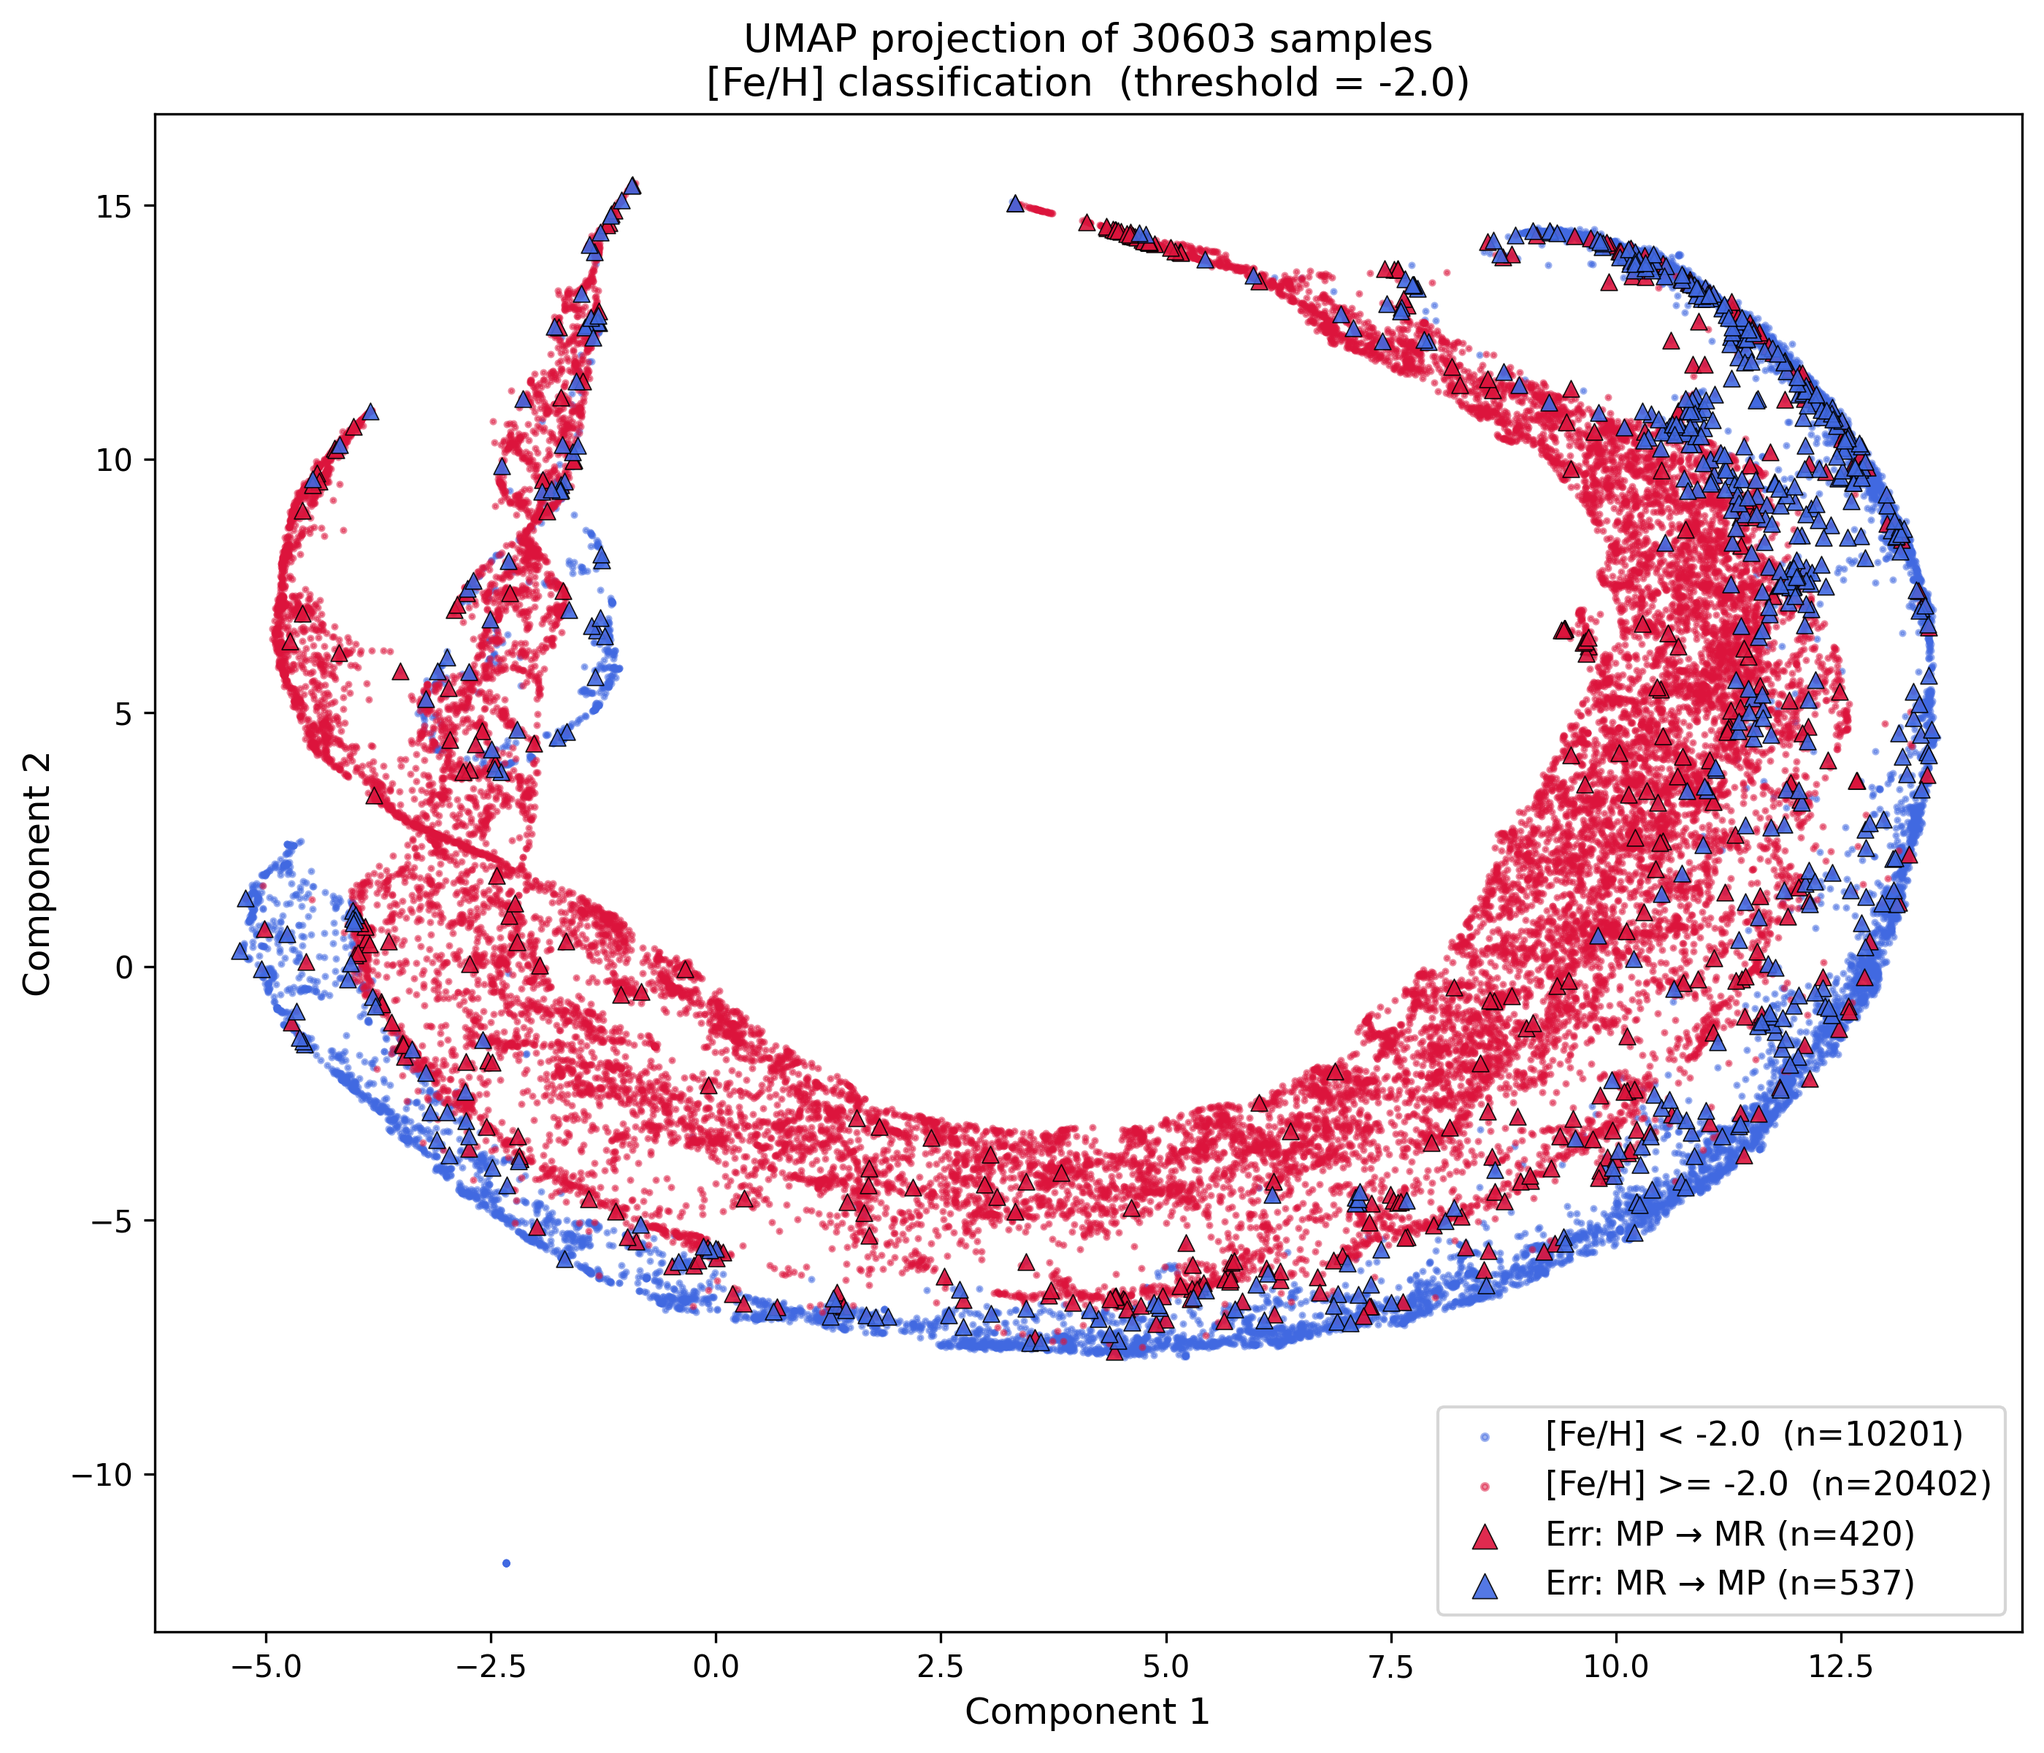
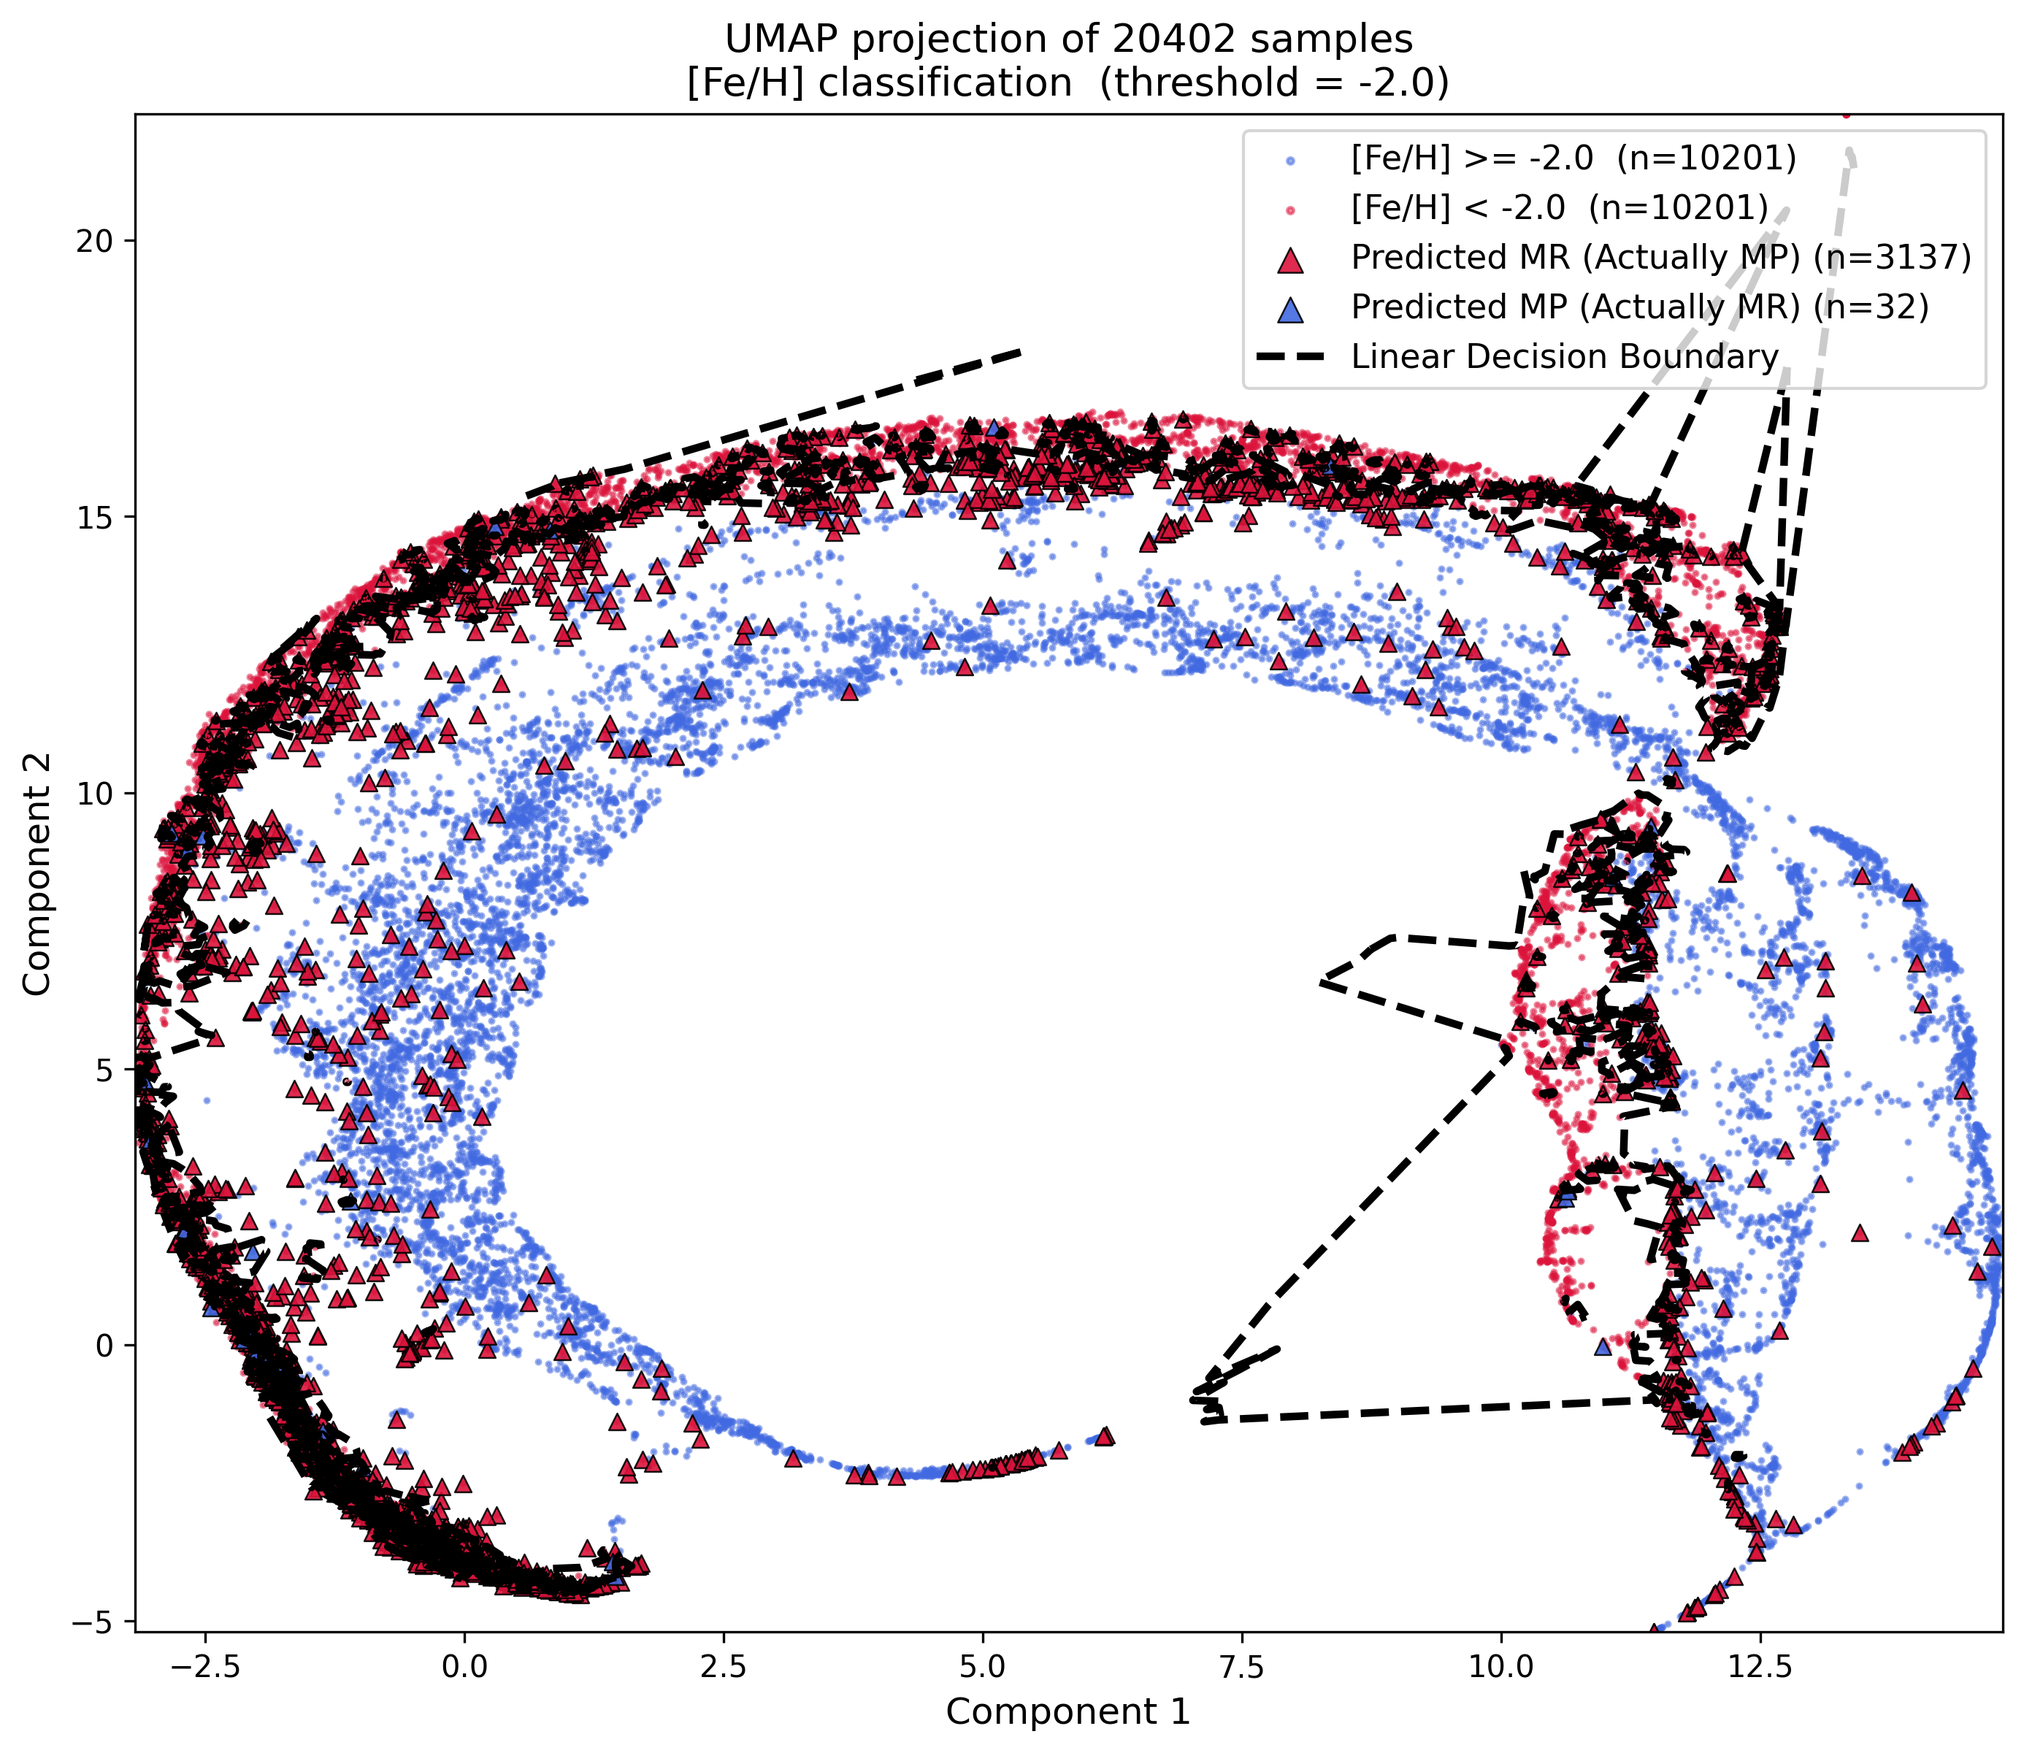
simplifications and new visualizations

diff --git a/visualize_embedding.py b/visualize_embedding.py
@@ -18,14 +18,14 @@ def visualize_large_h5(
     random_state=42,
     feh_classify=False,  # If True: binary red/blue; If False: continuous heatmap
     feh_threshold=None,  # If None: random sampling; If value: balanced class sampling
-    red_blue_ratio=2.0,  # Ratio of red to blue samples
+    red_blue_ratio=1.0,  # Ratio of red(MP) to blue(MR) samples
     eval_weights=None,   # Path to linear classifier weights CSV
 ):
     """
     Sample a subset of data from a large normalized H5 file (columnar or 2D) and visualize.
     Also loads the 'feh' column for the sampled indices.
     - feh_classify=False  → continuous [Fe/H] colorbar heatmap (default)
-    - feh_classify=True   → binary scatter: feh > feh_threshold = red, feh ≤ feh_threshold = blue
+    - feh_classify=True   → binary scatter: feh < feh_threshold = red(MP), feh ≥ feh_threshold = blue(MR)
     """
     if not os.path.exists(file_path):
         print(f"Error: File '{file_path}' not found.")
@@ -33,6 +33,7 @@ def visualize_large_h5(
 
     feh_values = None
     y_pred = None
+    logits_out = None
 
     try:
         with h5py.File(file_path, 'r') as f:
@@ -76,31 +77,31 @@ def visualize_large_h5(
             if feh_threshold is not None and has_feh:
                 # ---- Balanced class sampling ----
                 # Read the full feh column first to determine class membership,
-                # then draw k = min(N_blue, n_samples) samples from each class.
+                # then draw k = min(N_mp, n_samples) samples from each class.
                 print("feh_classify=True: loading full feh to build balanced sample...")
                 full_feh = f['feh'][:].astype(np.float64)
 
                 all_idx = np.arange(total_rows)
-                blue_pool = all_idx[full_feh <  feh_threshold]   # feh <  threshold
-                red_pool  = all_idx[full_feh >= feh_threshold]   # feh >= threshold
-                N_blue = len(blue_pool)
-                N_red  = len(red_pool)
+                mp_pool = all_idx[full_feh <  feh_threshold]   # feh <  threshold
+                mr_pool = all_idx[full_feh >= feh_threshold]   # feh >= threshold
+                N_mp = len(mp_pool)
+                N_mr = len(mr_pool)
 
                 
-                # Calculates max possible blue samples satisfying all constraints:
-                # 1. k_blue <= N_blue
-                # 2. k_blue <= n_samples
-                # 3. k_blue * ratio <= N_red
-                k_blue = min(N_blue, n_samples, int(N_red / red_blue_ratio))
-                k_red = int(k_blue * red_blue_ratio)
+                # Calculates max possible MP samples satisfying all constraints:
+                # 1. k_mp <= N_mp
+                # 2. k_mp <= n_samples
+                # 3. k_mp * ratio <= N_mr
+                k_mp = min(N_mp, n_samples, int(N_mr / red_blue_ratio))
+                k_mr = int(k_mp * red_blue_ratio)
                 
-                print(f"  Blue pool (feh < {feh_threshold}): {N_blue}  |  "
-                      f"Red pool (feh >= {feh_threshold}): {N_red}")
-                print(f"  Sampling {k_blue} Blue and {k_red} Red (Ratio: {red_blue_ratio})")
+                print(f"  MP pool (feh < {feh_threshold}): {N_mp}  |  "
+                      f"MR pool (feh >= {feh_threshold}): {N_mr}")
+                print(f"  Sampling {k_mp} MP (Red) and {k_mr} MR (Blue) (MR/MP Ratio: {red_blue_ratio})")
 
-                blue_idx = np.random.choice(blue_pool, k_blue, replace=False)
-                red_idx  = np.random.choice(red_pool,  k_red, replace=False)
-                indices  = np.concatenate([blue_idx, red_idx])
+                mp_idx = np.random.choice(mp_pool, k_mp, replace=False)
+                mr_idx = np.random.choice(mr_pool, k_mr, replace=False)
+                indices = np.concatenate([mp_idx, mr_idx])
                 indices.sort()
 
                 # Keep per-sample class labels aligned with indices order
@@ -189,6 +190,7 @@ def visualize_large_h5(
                                 print(f"Warning: feature '{feat}' needed by weights but not in H5.")
                                 
                     y_pred = (logits > 0.0).astype(int)
+                    logits_out = logits.copy()
 
     except Exception as e:
         print(f"Error processing H5 file: {e}")
@@ -268,19 +270,19 @@ def visualize_large_h5(
             below = valid_mask & (feh_values <  feh_threshold)
             n_above = above.sum()
             n_below = below.sum()
-            print(f"  feh >= {feh_threshold}: {n_above} (red),  "
-                  f"feh < {feh_threshold}: {n_below} (blue)")
+            print(f"  feh >= {feh_threshold}: {n_above} (Blue),  "
+                  f"feh < {feh_threshold}: {n_below} (Red)")
 
-            # Plot metal-rich (red) on top so rare metal-poor stand out
-            ax.scatter(
-                embedding[below, 0], embedding[below, 1],
-                s=2, alpha=0.5, c='royalblue',
-                label=f'[Fe/H] < {feh_threshold}  (n={n_below})',
-            )
+            # Plot metal-rich (Blue) first, then rare metal-poor (Red) on top so they stand out
             ax.scatter(
                 embedding[above, 0], embedding[above, 1],
-                s=2, alpha=0.5, c='crimson',
+                s=2, alpha=0.5, c='royalblue',
                 label=f'[Fe/H] >= {feh_threshold}  (n={n_above})',
+            )
+            ax.scatter(
+                embedding[below, 0], embedding[below, 1],
+                s=2, alpha=0.5, c='crimson',
+                label=f'[Fe/H] < {feh_threshold}  (n={n_below})',
             )
 
             ax.legend(markerscale=4, fontsize=11, loc='best')
@@ -300,7 +302,7 @@ def visualize_large_h5(
                 embedding[valid_mask, 0], embedding[valid_mask, 1],
                 s=1, alpha=0.6,
                 c=feh_values[valid_mask],
-                cmap='RdYlBu',   # blue = metal-poor, red = metal-rich
+                cmap='RdYlBu',   # red = metal-poor, blue = metal-rich
                 vmin=vmin, vmax=vmax
             )
 
@@ -328,8 +330,8 @@ def visualize_large_h5(
             mr_as_mp = valid_mask & (y_true == 1) & (y_pred == 0)
             
             # Helper to determine marker colors
-            # If continuous: use the color from the heatmap for that feh value
-            # If binary: use the standard crimson/royalblue
+            # If binary: map the marker color to what the model *predicted* 
+            # so the triangles stand out against their *true* background class.
             if not use_binary_plot:
                 # Need the same normalization as the main scatter
                 norm = mcolors.Normalize(vmin=vmin, vmax=vmax)
@@ -337,23 +339,40 @@ def visualize_large_h5(
                 colors_mp_as_mr = cmap(norm(feh_values[mp_as_mr]))
                 colors_mr_as_mp = cmap(norm(feh_values[mr_as_mp]))
             else:
-                colors_mp_as_mr = 'crimson'
-                colors_mr_as_mp = 'royalblue'
+                colors_mp_as_mr = 'crimson'    # Predicted MR (Actually MP) gets Red true background color
+                colors_mr_as_mp = 'royalblue'  # Predicted MP (Actually MR) gets Blue true background color
 
             if mp_as_mr.sum() > 0:
                 ax.scatter(
                     embedding[mp_as_mr, 0], embedding[mp_as_mr, 1],
                     marker='^', s=30, alpha=0.9, c=colors_mp_as_mr, edgecolors='black', linewidths=0.6,
-                    label=f'Err: MP \u2192 MR (n={mp_as_mr.sum()})'
+                    label=f'Predicted MR (Actually MP) (n={mp_as_mr.sum()})'
                 )
             if mr_as_mp.sum() > 0:
                 ax.scatter(
                     embedding[mr_as_mp, 0], embedding[mr_as_mp, 1],
                     marker='^', s=30, alpha=0.9, c=colors_mr_as_mp, edgecolors='black', linewidths=0.6,
-                    label=f'Err: MR \u2192 MP (n={mr_as_mp.sum()})'
+                    label=f'Predicted MP (Actually MR) (n={mr_as_mp.sum()})'
                 )
                 
-            ax.legend(markerscale=1.5, fontsize=11, loc='best')
+            if logits_out is not None:
+                try:
+                    ax.tricontour(
+                        embedding[:, 0], embedding[:, 1],
+                        logits_out, levels=[0.0],
+                        colors='black', linewidths=2.5, linestyles='dashed'
+                    )
+                    import matplotlib.lines as mlines
+                    boundary_line = mlines.Line2D([], [], color='black', linewidth=2.5, linestyle='dashed', label='Linear Decision Boundary')
+                    handles, labels = ax.get_legend_handles_labels()
+                    handles.append(boundary_line)
+                    ax.legend(handles=handles, markerscale=1.5, fontsize=11, loc='best')
+                except Exception as e:
+                    print(f"Failed to plot boundary tricontour: {e}")
+                    ax.legend(markerscale=1.5, fontsize=11, loc='best')
+            else:
+                ax.legend(markerscale=1.5, fontsize=11, loc='best')
+                
             feh_img = feh_img.replace('.png', '_eval.png')
 
         ax.set_xlabel("Component 1", fontsize=12)
@@ -371,7 +390,7 @@ if __name__ == "__main__":
     p.add_argument("--method", type=str, default='umap', choices=['umap', 'tsne', 'pca'])
     p.add_argument("--threshold", type=float, default=None, help="Fe/H threshold for balanced sampling. If None, uses random sampling.")
     p.add_argument("--continuous", action="store_true", help="Use continuous heatmap for plotting")
-    p.add_argument("--ratio", type=float, default=2.0, help="Red to Blue ratio for balanced sampling")
+    p.add_argument("--ratio", type=float, default=1.0, help="Red to Blue ratio for balanced sampling")
     p.add_argument("--eval_weights", nargs='?', const='linear_model_weights.csv', default=None, 
                    help="Path to weights CSV to evaluate and highlight classification errors (default: linear_model_weights.csv)")
     args = p.parse_args()

diff --git a/linear_classifier.py b/linear_classifier.py
@@ -3,7 +3,6 @@ import numpy as np
 import torch
 import torch.nn as nn
 import torch.optim as optim
-import torch.nn.functional as F
 import matplotlib.pyplot as plt
 import re
 import os
@@ -67,7 +66,6 @@ def evaluate_all(weights_file, out_dir, suffix=''):
         bp_cols = sorted([k for k in keys if k.startswith('bp_')], key=numerical_sort_key)
         rp_cols = sorted([k for k in keys if k.startswith('rp_')], key=numerical_sort_key)
         feature_cols = bp_cols + rp_cols
-        norm_cols = set(feature_cols) 
         feature_cols.append('ebv')
         
         full_feh = f['feh'][:].astype(np.float64)
@@ -148,7 +146,6 @@ def main():
     p_add('--train-file', type=str, default=None, help="Path to train H5 file. Overrides --data-split.")
     p_add('--test-file', type=str, default=None, help="Path to test H5 file. Overrides --data-split.")
     p_add('--feh-threshold', type=float, default=-2.0, help="[Fe/H] threshold defining the boundary between MP and MR classes.")
-    p_add('--hidden-dim', type=int, default=2, help="Hidden dimension (currently unused).")
     p_add('--optimizer', type=str, default='adam', choices=['adam', 'sgd', 'irls'], help="Optimizer type: 'adam', 'sgd', or 'irls'.")
     p_add('--lr', type=float, default=1.0, help="Initial learning rate.")
     p_add('--momentum', type=float, default=0.0, help="Momentum factor for SGD optimizer. Ignored if --optimizer=adam.")
@@ -437,7 +434,6 @@ def main():
         epoch_train_loss = 0.0
         with torch.no_grad():
             for batch_x, batch_y in train_loader:
-                # batch_x, batch_y = batch_x.to(device), batch_y.to(device)
                 out = model(batch_x)
                 loss_unreduced = criterion(out, batch_y)
                 w = w_mr * batch_y + w_mp * (1 - batch_y)
@@ -523,9 +519,6 @@ def main():
     
     out_csv = 'linear_model_weights.csv'
     weights_img = 'weights_plot.png'
-    
-
-    
     out_csv = os.path.join(out_dir, out_csv)
     weights_img = os.path.join(out_dir, weights_img)
 

diff --git a/two_layers.py b/two_layers.py
@@ -3,7 +3,6 @@ import numpy as np
 import torch
 import torch.nn as nn
 import torch.optim as optim
-import torch.nn.functional as F
 import matplotlib.pyplot as plt
 import re
 import os

diff --git a/readme.md b/readme.md
@@ -51,7 +51,7 @@ Visualize high-dimensional BP/RP embeddings using UMAP, t-SNE, or PCA, colored b
   ```bash
   python visualize_embedding.py --method umap --threshold -2.0 --continuous
   ```
-- **Error Diagnosis**: Use `--eval_weights` to overlay classification errors (false positives/negatives) as large triangles on the plot.
+- **Error Diagnosis and Decision Boundary**: Use `--eval_weights <path_to_csv>` to overlay classification errors (false positives/negatives) as large triangles on the plot, and draw the linear classifier's decision boundary (`Logit = 0`).
   ```bash
-  python visualize_embedding.py --method umap --threshold -2.0 --continuous --eval_weights
+  python visualize_embedding.py --method umap --threshold -2.0 --eval_weights linear_0.1/linear_model_weights.csv
   ```
